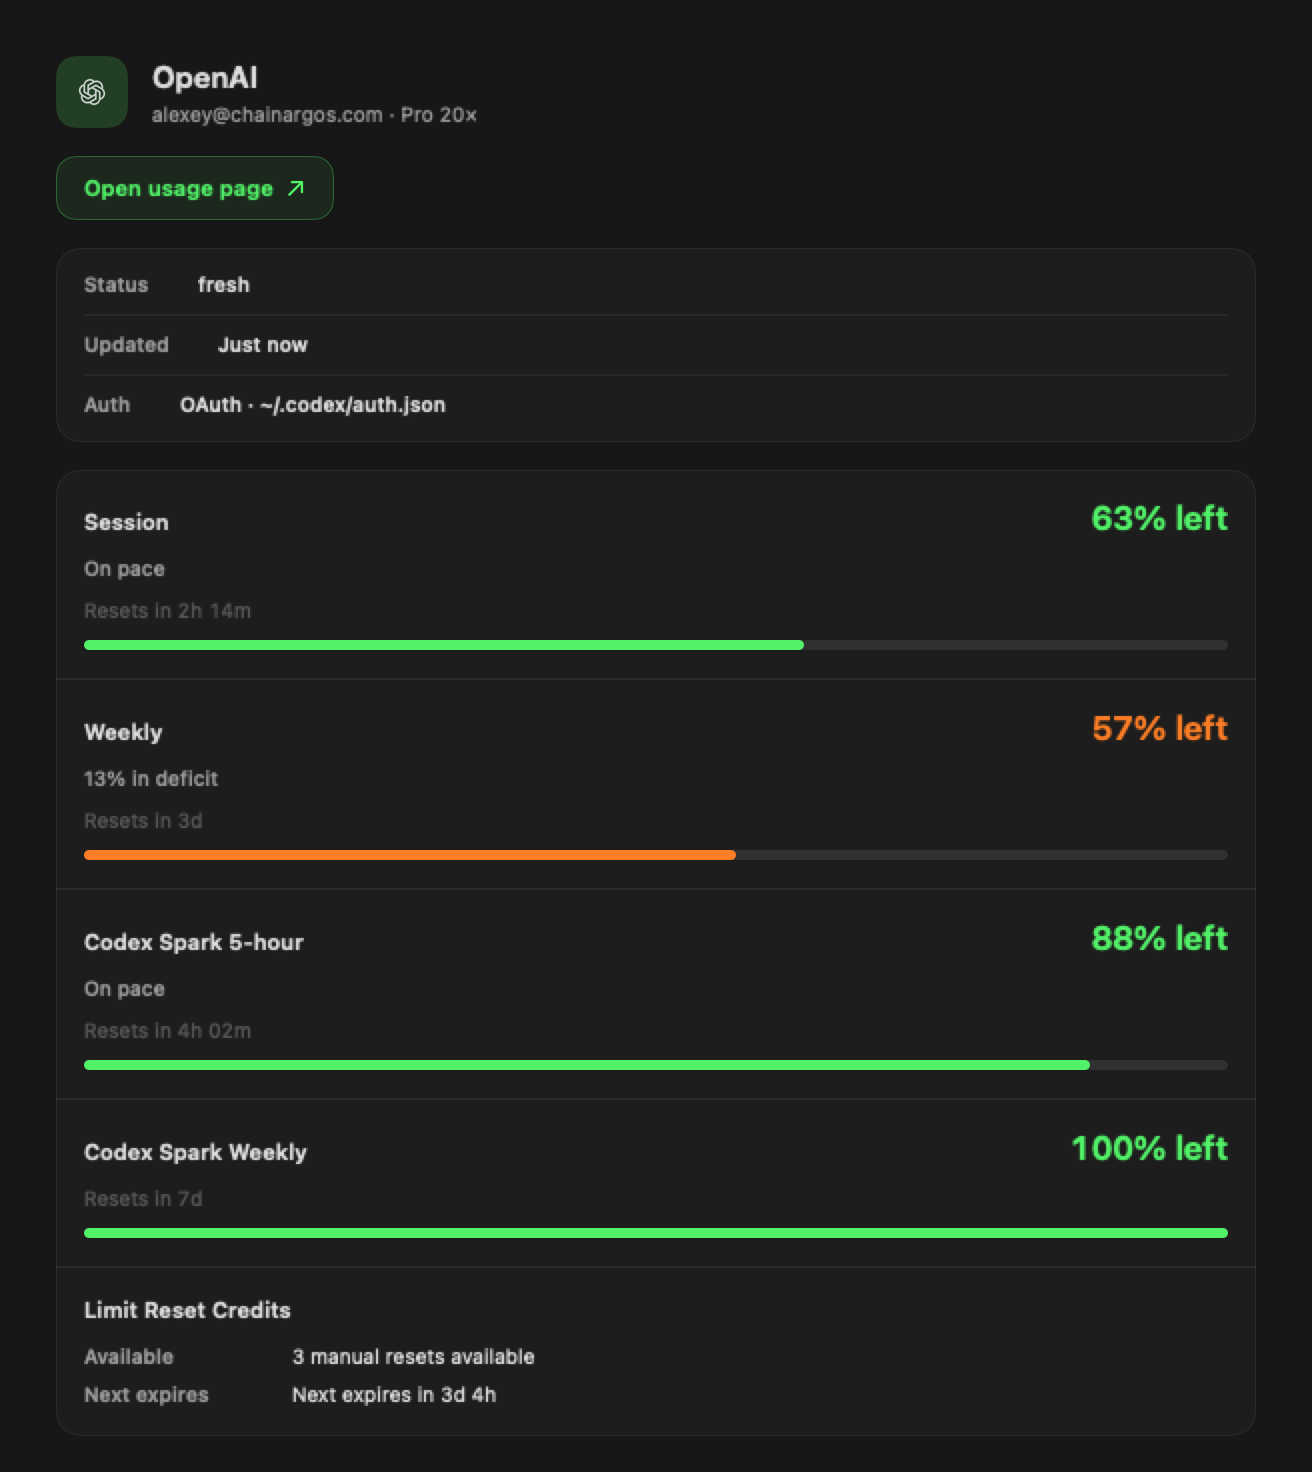
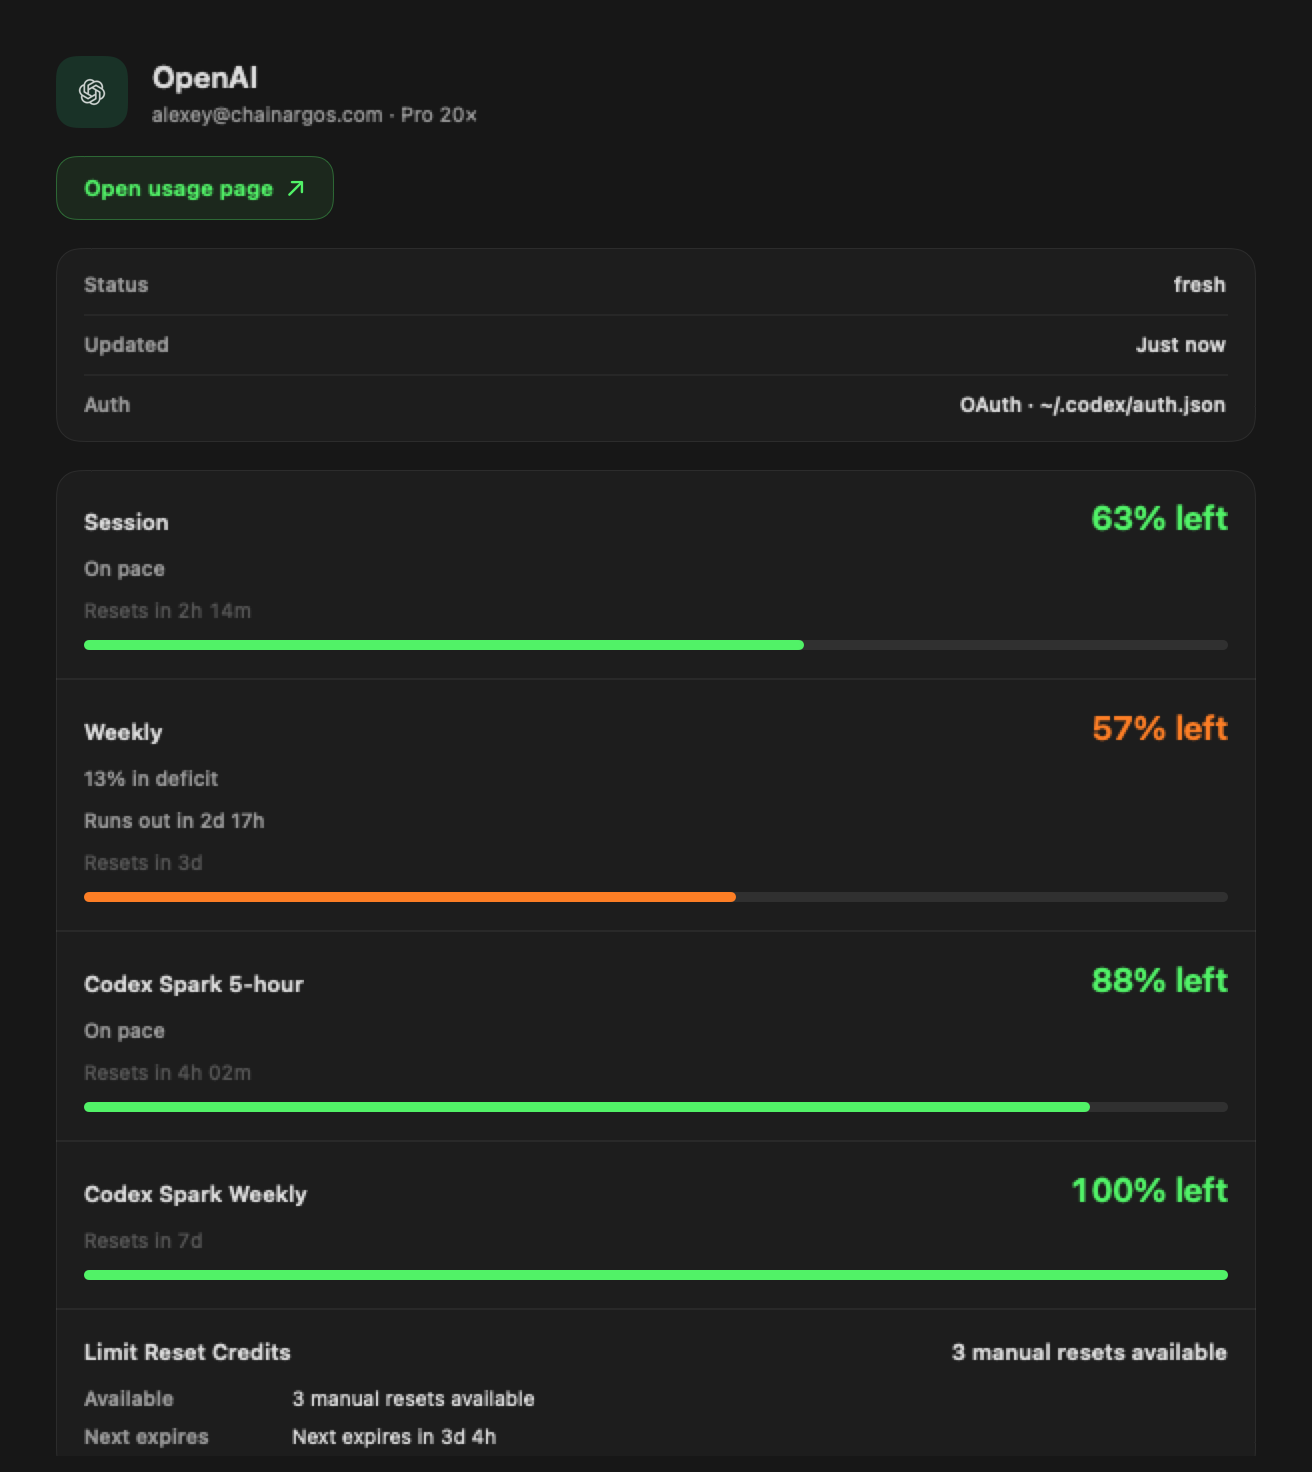
fix(desktop): align Usage detail anatomy
Preserve every Rust pace segment, trail metadata values, apply provider brand chrome, and restore Limit Reset count hierarchy. Remove oracle-only reset history unavailable from provider data.

diff --git a/native/Sources/JackinDesktop/UsageWindow/ProviderCardView.swift b/native/Sources/JackinDesktop/UsageWindow/ProviderCardView.swift
@@ -146,12 +146,20 @@ public struct ProviderCardView: View {
     /// Bound bucket: show every Rust layout line as labeled detail (count, next expiry, …).
     private func limitResetCreditsRow(_ row: UsageDetailRow) -> some View {
         VStack(alignment: .leading, spacing: 10) {
-            Text(row.label)
-                .font(.subheadline.weight(.semibold))
             // Prefer structured lines from presentation; fall back to displayLabel split.
             let lines = row.layoutLines.isEmpty
                 ? row.displayLabel.split(separator: " · ").map { String($0) }
                 : row.layoutLines.compactMap { $0.leading ?? $0.trailing }
+            HStack(alignment: .firstTextBaseline, spacing: 12) {
+                Text(row.label)
+                    .font(.subheadline.weight(.semibold))
+                Spacer(minLength: 8)
+                if let count = lines.first {
+                    Text(count)
+                        .font(.subheadline.weight(.semibold))
+                        .multilineTextAlignment(.trailing)
+                }
+            }
             if lines.isEmpty {
                 Text(row.displayLabel)
                     .font(.caption)
@@ -197,24 +205,25 @@ public struct ProviderCardView: View {
     /// Logo plate for provider identity (HTML `.plogo` role — official mark preferred).
     @ViewBuilder
     private func providerLogoPlate(iconKey: String?, size: CGFloat) -> some View {
+        let tint = desktopProviderBrandChrome(iconKey: iconKey)
         ZStack {
             RoundedRectangle(cornerRadius: size * 0.28, style: .continuous)
-                .fill(Color.jackinPhosphor.opacity(0.18))
+                .fill(tint.opacity(0.18))
             if let iconKey, let mark = ProviderMarks.swiftUIImage(forIconKey: iconKey) {
                 mark
                     .resizable()
                     .interpolation(.high)
                     .scaledToFit()
                     .frame(width: size * 0.52, height: size * 0.52)
-                    .colorMultiply(Color.jackinPhosphor)
+                    .colorMultiply(tint)
             } else if let iconKey, let symbol = desktopProviderSystemImage(iconKey: iconKey) {
                 Image(systemName: symbol)
                     .font(.system(size: size * 0.42, weight: .semibold))
-                    .foregroundStyle(Color.jackinPhosphor)
+                    .foregroundStyle(tint)
             } else {
                 Image(systemName: "circle.grid.cross")
                     .font(.system(size: size * 0.42, weight: .semibold))
-                    .foregroundStyle(Color.jackinPhosphor)
+                    .foregroundStyle(tint)
             }
         }
         .frame(width: size, height: size)
@@ -231,6 +240,7 @@ public struct ProviderCardView: View {
                     lineView(line, trailingStyle: .primary)
                 }
             }
+            .frame(maxWidth: .infinity, alignment: .trailing)
         }
         .accessibilityElement(children: .combine)
         .accessibilityLabel("\(row.label) \(row.displayLabel)")
@@ -315,6 +325,6 @@ public struct ProviderCardView: View {
                     .foregroundStyle(trailingStyle)
             }
         }
-        .frame(maxWidth: .infinity, alignment: line.leading == nil ? .trailing : .leading)
+        .frame(maxWidth: .infinity, alignment: .trailing)
     }
 }

diff --git a/native/Tools/DesktopVisualSnapshotHarness/main.swift b/native/Tools/DesktopVisualSnapshotHarness/main.swift
@@ -1173,8 +1173,9 @@ private struct QIFixture {
             var lines: [UsagePresentationLine] = [
                 UsagePresentationLine(leading: remaining, trailing: nil)
             ]
-            if let pace {
-                lines.append(UsagePresentationLine(leading: pace, trailing: nil))
+            let paceLines = pace.map(splitPaceLabel) ?? []
+            for paceLine in paceLines {
+                lines.append(UsagePresentationLine(leading: paceLine, trailing: nil))
             }
             if let reset {
                 lines.append(UsagePresentationLine(leading: nil, trailing: reset))
@@ -1184,7 +1185,8 @@ private struct QIFixture {
                 kind: .bucket,
                 label: label,
                 layoutLines: lines,
-                displayLabel: [remaining, pace, reset].compactMap { $0 }.joined(separator: " · "),
+                displayLabel: ([remaining] + paceLines + [reset].compactMap { $0 })
+                    .joined(separator: " · "),
                 meterPercent: meter,
                 severity: severity
             )
@@ -1235,7 +1237,7 @@ private struct QIFixture {
                 remaining: "57% left",
                 meter: 57,
                 severity: "warn",
-                pace: "13% in deficit",
+                pace: "13% in deficit · Runs out in 2d 17h",
                 reset: "Resets in 3d"
             ),
             bucket(

diff --git a/plans/previews/desktop-ui/index.html b/plans/previews/desktop-ui/index.html
@@ -1302,7 +1302,6 @@
             <div class="reset-detail">
               <div class="reset-row"><span class="k">Available</span><span class="v strong">3 manual resets</span></div>
               <div class="reset-row"><span class="k">Next expires</span><span class="v">in 3d 4h</span></div>
-              <div class="reset-row"><span class="k">Windows</span><span class="v">3d 4h · 8d 1h · 19d 22h</span></div>
               <div class="reset-row"><span class="k">Scope</span><span class="v">Session + weekly (Codex)</span></div>
             </div>
           </div>

diff --git a/native/Tools/DesktopArchitectureLint/main.swift b/native/Tools/DesktopArchitectureLint/main.swift
@@ -261,6 +261,8 @@ struct DesktopArchitectureLint {
             "if index > 0 {",
             "private func bucketRow",
             "private func limitResetCreditsRow",
+            "if let count = lines.first",
+            "let tint = desktopProviderBrandChrome(iconKey: iconKey)",
         ]
         let forbidden = ["private func bucketCard", "private func limitResetCreditsCard"]
         let ok = required.allSatisfy(text.contains) && forbidden.allSatisfy { !text.contains($0) }

diff --git a/advisor-plans/qi-artifacts/deltas/2026-08-10-usage-toolbar.md b/advisor-plans/qi-artifacts/deltas/2026-08-10-usage-toolbar.md
@@ -9,7 +9,7 @@
 | Cycle | High residual | Fix |
 |-------|---------------|-----|
 | Fail | Dark solid white SF Symbol disks | view-bitmap crop |
-| Blocked | current Dark view-bitmap | unreadable white symbol disks; no coordinate capture fallback |
+| Pass | current Dark window-ID crop | readable symbols; inactive system state documented |
 | Fail | Brand title was leading despite centered HTML oracle | hidden duplicate NSWindow title + SwiftUI `.principal` brand item |
 | Pass | Brand centered with phosphor chevron | recaptured full window + toolbar Dark+Light |
 
@@ -18,7 +18,7 @@
 | Check | HTML | Native | Match |
 |-------|------|--------|-------|
 | Brand | centered jackin❯ desktop | centered; phosphor chevron | Yes |
-| Refresh | clockwise glyph | Light readable; Dark capture blocked | Partial |
+| Refresh | clockwise glyph | readable D+L | Yes |
 | Sidebar toggle | system | present | Yes |
 | Unified chrome | titlebar | NSToolbar crop | Yes |
 | Limits only | n/a | no prices | Yes |
@@ -27,7 +27,7 @@
 
 | Severity | Element | Notes |
 |----------|---------|-------|
-| High | Dark toolbar capture | Window-ID capture unavailable; view-bitmap symbols whiteout |
+| Low | Active state | Harness window is inactive; toolbar geometry and symbols remain valid |
 
 ## Verdict
-**Verdict: Light Pass; Dark Blocked**
+**Verdict: Pass** (Dark + Light; inactive system state documented)

diff --git a/advisor-plans/qi-artifacts/deltas/2026-08-10-usage-window-openai.md b/advisor-plans/qi-artifacts/deltas/2026-08-10-usage-window-openai.md
@@ -14,7 +14,7 @@
 | Detail head | identity + external usage action | same | Yes |
 | Meta | one quiet details group | same | Yes |
 | Limits | one inset divided list | same | Yes |
-| Themes | active Dark and Light renderings | Dark glass fallback; Light inactive | Blocked |
+| Themes | active Dark and Light renderings | valid window-ID captures; both inactive | Blocked |
 
 ## False-pass correction
 
@@ -29,14 +29,14 @@ and QI host now share one `UsageAccountRailView`, preventing that drift.
 
 Third re-audit found region-based screen capture had accepted pixels from an
 unrelated Telegram window occupying the same coordinates. Region capture is now
-forbidden; evidence uses window ID only. Current Dark fallback whites out the
-Liquid Glass sidebar, while Light is a valid but inactive window capture.
+forbidden; evidence uses window ID only. Current Dark and Light captures are
+structurally valid but inactive window captures.
 
 ## Different (not High)
 
 | Severity | Element | Notes |
 |----------|---------|-------|
-| High | Active full shell | Screen-capture permission / key-window state unavailable in harness |
+| High | Active full shell | Key-window state unavailable in harness |
 
 ## Verdict
 

diff --git a/advisor-plans/VISUAL_QA_LOG.md b/advisor-plans/VISUAL_QA_LOG.md
@@ -14,9 +14,8 @@ DesktopArchitectureLint ALL PASS
 DesktopSoTParityHarness ALL PASS ×3
 DesktopParityMatrixHarness ALL PASS
 StatusItemChipHarness / ProviderMarks ALL PASS
-usage_window_openai_dark: BLOCKED (Dark glass whiteout)
-usage_window_openai_light: STRUCTURAL_INACTIVE
-usage_toolbar_dark: BLOCKED (view-bitmap icon whiteout)
+usage_window_openai_dark/light: STRUCTURAL_INACTIVE
+usage_toolbar_dark/light: readable inactive window-ID crops
 ```
 
 Log: `qi-artifacts/native/desktop-gates.log`
@@ -88,8 +87,8 @@ Full-window evidence re-audit found a more severe capture false-pass: coordinate
 region capture had promoted an unrelated Telegram window. Harness now forbids
 region capture and targets `NSWindow.windowNumber` only. Correct captures exposed
 and fixed monochrome provider plates plus collapsed missing-reset row geometry.
-Dark full-shell remains blocked by Liquid Glass view-bitmap whiteout; Light is
-retained as structurally valid inactive evidence, not active craft proof.
+Dark/Light full-shell captures are retained as structurally valid inactive
+evidence, not active craft proof.
 
 ## Live
 popover-live / ctx-menu **BLOCKED** — SoTParity proves focus/menu.

diff --git a/advisor-plans/qi-artifacts/parity-matrix.md b/advisor-plans/qi-artifacts/parity-matrix.md
@@ -5,8 +5,7 @@
 ## High residual craft
 
 Product structure has no known High residual. Active full-window visual parity
-remains blocked: Dark fallback cannot composite Liquid Glass sidebar; Light
-window-ID capture is structurally valid but inactive.
+remains blocked: Dark/Light window-ID captures are structurally valid but inactive.
 
 ## Scenes
 | Scene | Dark | Light | Verdict |
@@ -18,8 +17,8 @@ window-ID capture is structurally valid but inactive.
 | usage-overview | Pass | Pass | one divided per-account inventory |
 | usage-provider-nest | Pass | Pass | 57%/0% |
 | usage-detail-openai | Pass | Pass | Session/Weekly/Spark/LRC |
-| usage-window-openai | Blocked | Blocked | Dark glass whiteout; Light inactive |
-| usage-toolbar | Blocked | Pass | Dark fallback symbol whiteout; Light readable |
+| usage-window-openai | Blocked | Blocked | structurally valid; inactive state |
+| usage-toolbar | Pass | Pass | readable inactive window-ID crops |
 
 ## Live
 | Scene | Verdict |

diff --git a/advisor-plans/qi-artifacts/native/MANIFEST.md b/advisor-plans/qi-artifacts/native/MANIFEST.md
@@ -7,9 +7,9 @@ usage_window: UsageWindowController CGWindow full (sidebar nest + detail) — no
 usage_detail: ProviderCardView (+ window detail column)
 usage_overview: OverviewListView (+ window overview)
 usage_nest: UsageAccountNestView (+ window sidebar when CGWindow OK)
-usage_window_openai_dark: BLOCKED
-usage_window_overview_dark: BLOCKED
+usage_window_openai_dark: STRUCTURAL_INACTIVE
+usage_window_overview_dark: STRUCTURAL_INACTIVE
 usage_window_openai_light: STRUCTURAL_INACTIVE
 usage_window_overview_light: STRUCTURAL_INACTIVE
-usage_toolbar_dark: BLOCKED
+usage_toolbar_dark: UsageWindowController titlebar crop
 usage_toolbar_light: UsageWindowController titlebar crop

diff --git a/advisor-plans/qi-artifacts/deltas/2026-08-10-usage-detail-openai.md b/advisor-plans/qi-artifacts/deltas/2026-08-10-usage-detail-openai.md
@@ -35,5 +35,11 @@ inside `bucketCard`: repetition duplicated the card shell. Native now has one
 `limitList` shell; bucket helpers render rows only. Architecture lint guards
 that ownership boundary.
 
+Second audit fixed three visual/data false-passes: metadata values now align to
+the oracle’s trailing edge; provider head uses vendor brand chrome; Weekly keeps
+both Rust pace segments (`13% in deficit` and `Runs out in 2d 17h`). Limit Reset
+Credits now carries its count in the row header. Oracle-only reset-window history
+was removed because provider presentation does not expose it.
+
 ## Verdict
 **Verdict: Pass** (Dark + Light)

diff --git a/advisor-plans/qi-artifacts/native/sot-html-parity.md b/advisor-plans/qi-artifacts/native/sot-html-parity.md
@@ -8,7 +8,7 @@
 | OV-5 calendar when known | overviewResetDisplay | **match** selected/glance |
 | Providers strip + detail | TabGrid + PopoverProviderTab | **match** |
 | Open Usage CTA | PopoverFooter | **match** |
-| Usage glass sidebar + solid | craft roles match; window-ID evidence only | **BLOCKED** Dark glass / active state |
+| Usage glass sidebar + solid | craft roles match; inactive window-ID evidence | **BLOCKED** active state |
 | Structural Usage bar | nest/detail/overview/toolbar | **accepted** |
 | Meters 3-status; brand plates | severityTint / brandChrome | **match** |
 | No spend/price UI | parity matrix | **match** |

diff --git a/advisor-plans/qi-artifacts/native/sot-confirmed-checklist.md b/advisor-plans/qi-artifacts/native/sot-confirmed-checklist.md
@@ -39,5 +39,5 @@
 | OV-5 unselected multi-account reset | no Account DTO |
 | LG-6 plate hex | interim |
 | UW-O1 open control | footer+menu |
-| Usage full-window glass sidebar | **BLOCKED** — `usage-window-openai-dark.BLOCKED.txt`; Light inactive only |
+| Usage full-window glass sidebar | **BLOCKED** active state — Dark/Light window-ID captures inactive |
 | Live NSStatusItem | status-live-nsstatusitem.BLOCKED.txt |
